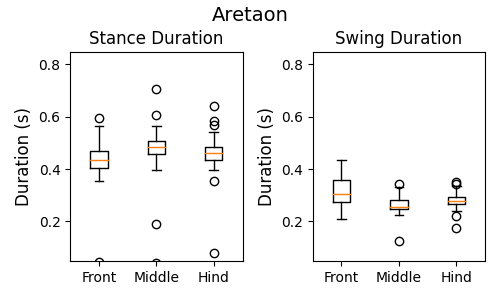
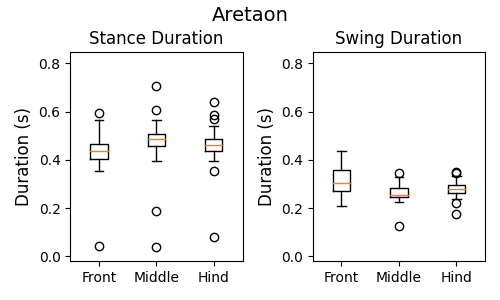
commit

diff --git a/expert_data_builder/stick_insect/plot_swing_stance_duration.py b/expert_data_builder/stick_insect/plot_swing_stance_duration.py
@@ -15,12 +15,6 @@ Medauroidea_1_path = 'expert_data_builder/stick_insect/Medauroidea/Animal06_1109
 Medauroidea_2_path = 'expert_data_builder/stick_insect/Medauroidea/Animal06_110919_00_16_gait.csv'
 Medauroidea_3_path = 'expert_data_builder/stick_insect/Medauroidea/Animal06_110919_00_31_gait.csv'
 
-def count_stance(data):
-    count = 0
-    for i in range(len(data)):
-        if data[i] == 1:
-            count += 1
-    return count   
 
 def count_stance_swing_per_cycle(data):
     data = np.array(data)
@@ -44,8 +38,6 @@ def count_stance_swing_per_cycle(data):
 
     return stance_durations, swing_durations
     
-
-
 
 def plot_swing_stance_duration(path, title, save_name):
     front_stance, middle_stance, hind_stance = [], [], []
@@ -111,12 +103,12 @@ def plot_swing_stance_duration(path, title, save_name):
     plt.boxplot([front_stance, middle_stance, hind_stance], labels=['Front', 'Middle', 'Hind'])
     plt.title('Stance Duration', fontsize = 12)
     plt.ylabel('Duration (s)', fontsize = 12)
-    plt.ylim(min_duration*1.2, max_duration*1.2)
+    plt.ylim(-0.02, max_duration*1.2)
     plt.subplot(1, 2, 2)
     plt.boxplot([front_swing, middle_swing, hind_swing], labels=['Front', 'Middle', 'Hind'])
     plt.title('Swing Duration', fontsize = 12)
     plt.ylabel('Duration (s)', fontsize = 12)
-    plt.ylim(min_duration*1.2, max_duration*1.2)
+    plt.ylim(-0.02, max_duration*1.2)
     plt.tight_layout(rect=[0, 0, 1, 0.95])
     plt.suptitle(title, fontsize = 14)
     plt.savefig(f'expert_data_builder/stick_insect/morphology/{save_name}.png') 
